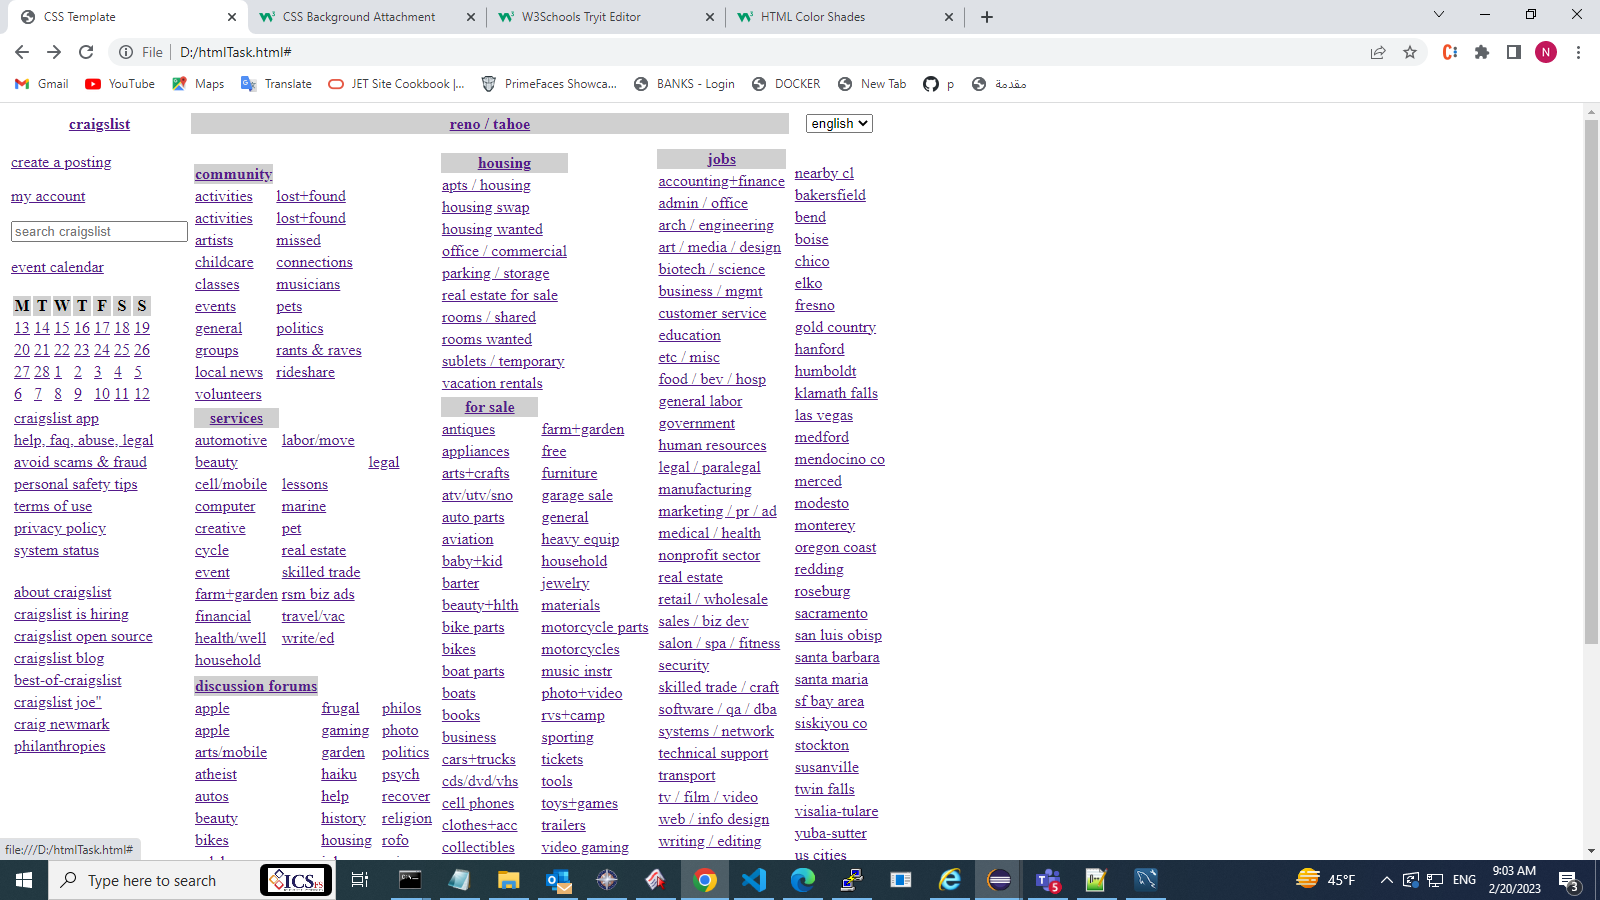
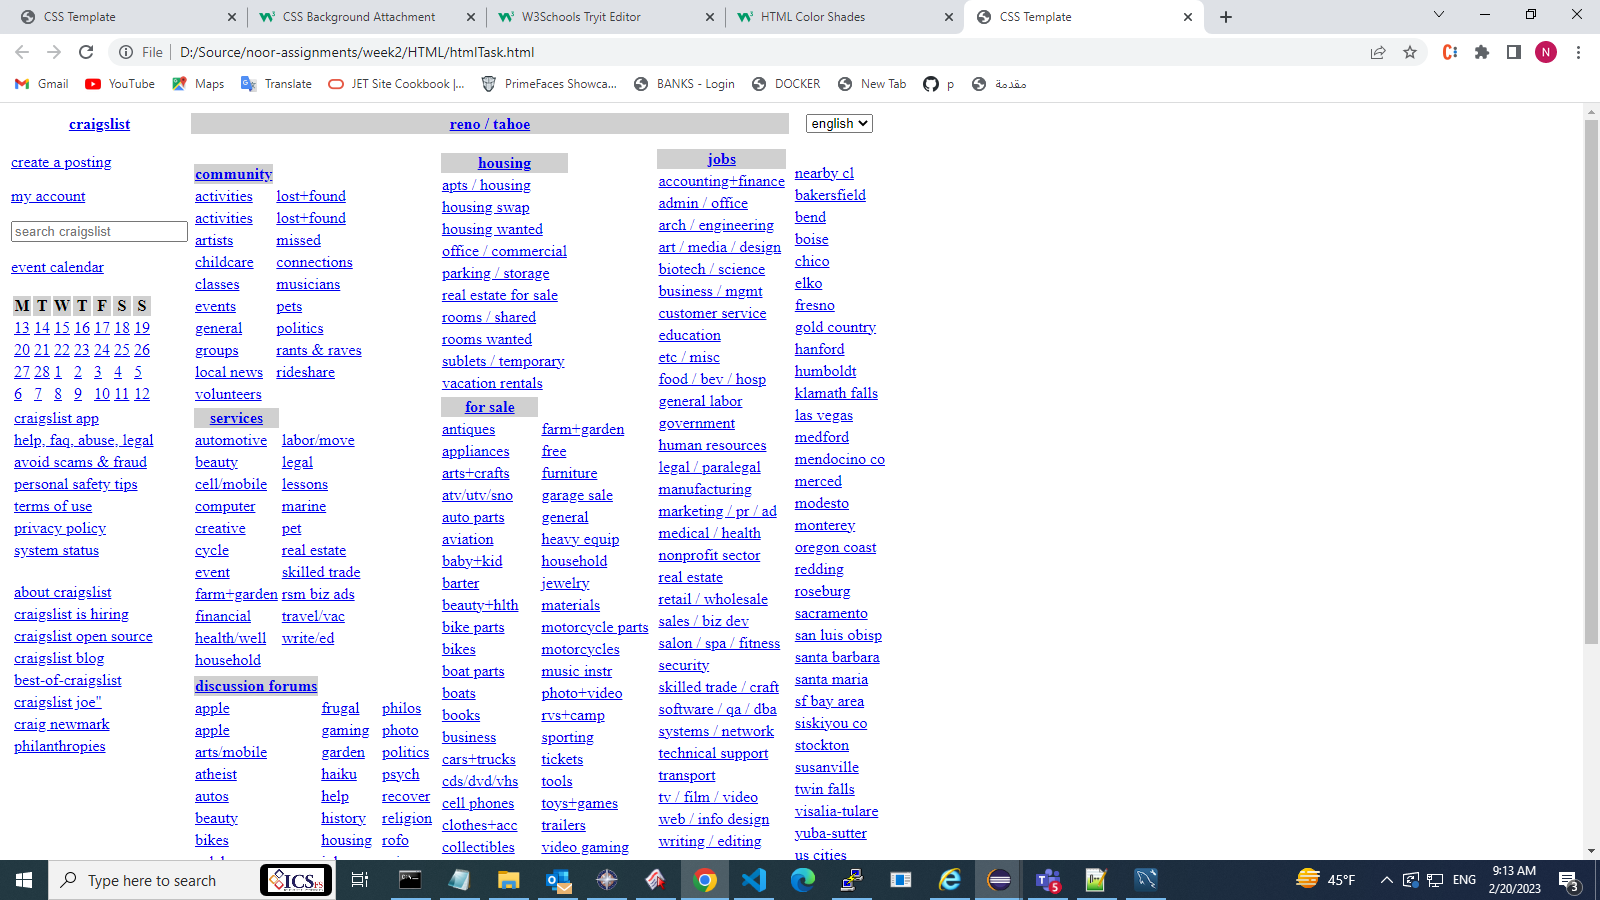
edit html task

diff --git a/week2/HTML/htmlTask.html b/week2/HTML/htmlTask.html
@@ -202,10 +202,10 @@
                            <td><a href="#">automotive</a></td>
                            <td><a href="#">labor/move</a></td>
                         </tr>
+                        <tr>
                         <td><a href="#">beauty</a></td>
-                        <td></td>
-                        <td></td>
-                        <td><a href="#">legal</a></td>
+                        <td><a href="#">legal</a></td></tr>
+
                         <tr>
                            <td><a href="#">cell/mobile </a></td>
                            <td>
@@ -596,7 +596,7 @@
                   <table>
                      <thead>
                         <tr>
-                           <th><a href="#" bgcolor="#D0D0D0">gigs</a></th>
+                           <th bgcolor="#D0D0D0"><a  href="#" >gigs</a></th>
                         </tr>
                      </thead>
                      <tbody>
@@ -723,6 +723,7 @@
                         <td><a href="#">   us states        </a></td>
                      </tr>
                      <tr>
+
                         <td><a href="#">     canada         </a></td>
                      </tr>
                      <tr>
